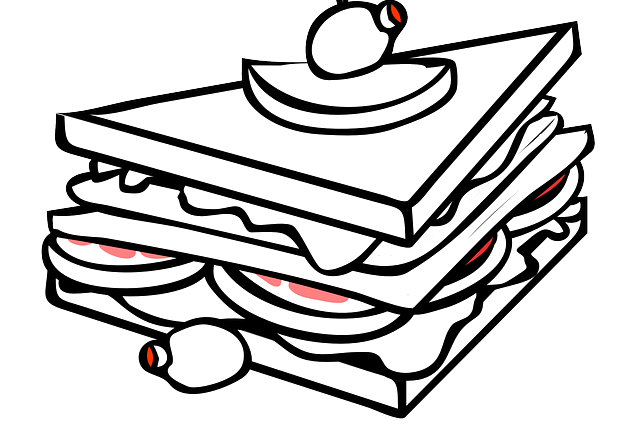
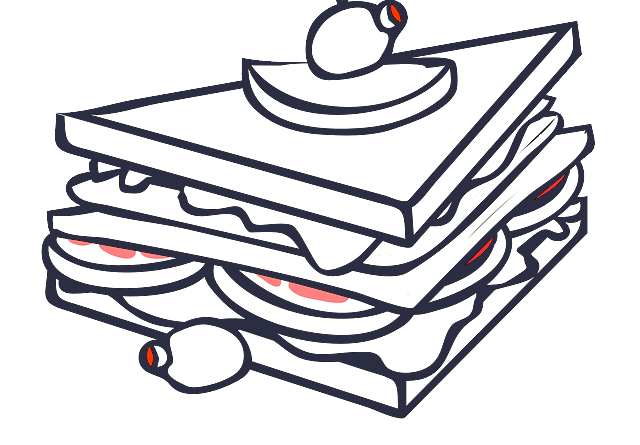
style index.html

Changed region(s): [[0.0625, 0.0, 0.9375, 0.9348], [0.6562, 0.5551, 0.6875, 0.5843], [0.6562, 0.2337, 0.6875, 0.2629]]

diff --git a/templates/index.html b/templates/index.html
@@ -1,9 +1,9 @@
 {% extends "base.html" %}
 {% block content %}
+
+
 <div class="row container-fluid callout-container">
     <div class="col-6 callout-img">
-        <!-- <img src="static/Img/Image_by_Clker_from_Pixabay-trim.png"> -->
-        <!-- <img src="static/Img/Image_by_Clker_from_Pixabay-blknwht.png"> -->
         <img src="static/Img/Image_by_Clker_from_Pixabay-line.png">
     </div>
     <div class="col-6 callout-text">
@@ -11,6 +11,37 @@
     </div>
 </div>
 
- 
-
+    {% if sandwiches|length > 0 %}
+        <div class="row">
+            <div class="col">
+                <h2 class="favourites">Our Favourite Sanwiches</h2>
+                <hr>
+            </div>
+        </div>
+        <div class="row card-row">
+            
+            {% for sandwich in sandwiches %}
+            <!-- default img on fail credited to: https://stackoverflow.com/questions/7995080/html-if-image-is-not-found -->
+            <div class="col-md-6 col-lg-4 card-row">
+                <div class="card shadow sandwich-card mt-5">
+                    <img src="{{ sandwich.image_url }}" class="card-img-top sandwich-url" alt="Sandwich Image" onerror="this.onerror=null; this.src='static/Img/Image_by_LuckyLife11_from_Pixabay.jpg'" />
+                    <div class="card-body">
+                        <h4 class="card-title">{{ sandwich.sandwich_name }}</h4>
+                        <p class="card-text">Category: {{ sandwich.category }}</p>
+                        <p class="card-text">{{ sandwich.prep_time }}</p>
+                        <small class="card-text"><em>Created by: {{ sandwich.created_by|upper }}</em></small>
+                        <div class="col mt-2">
+                            <a href="{{ url_for('view_sandwich', sandwich_id=sandwich._id) }}" class="btn btn-reg">View Sandwich</a>
+                        </div>
+                    </div>
+                </div>
+            </div>
+            
+            {% endfor %}
+        </div>
+    {% else %}
+        <div class="container no-results">
+            <h3 class="text-center mt-3">No Sandwiches Found</h3>
+        </div>
+    {% endif %}
 {% endblock %}

diff --git a/static/css/style.css b/static/css/style.css
@@ -1,6 +1,9 @@
 @import url('https://fonts.googleapis.com/css2?family=Mali:wght@400;500&display=swap');
 
 body {
+    overflow-x: hidden;
+    margin: 0 !important;
+    padding: 0 !important;
     font-family: 'Mali', cursive;
     color: #2b2d42;
     background-color: #e6e6e6;
@@ -19,7 +22,6 @@ nav {
 
 .nav-symbol h3 {
     font-size: 2.25rem;
-    /* font-weight: 400 !important; */
     font-weight: 500 !important;
     color: #2b2d42;
 }
@@ -103,18 +105,19 @@ footer {
     color: #9fd9de;
 }
 
-main {
+/* main {
     padding: 0 !important;
-}
+} */
 
 /* =============================== Index Section ============================= */
 
-.callout-container{
+.callout-container {
     margin: -20% 0 0 !important;
     padding: 20% 0 30% !important;
     background-color: #9fd9de;
     height: 50vh;
-    /* max-width: 100vw; */
+    width: 100vw;
+    margin-left: -15px !important;
 }
 
 .callout-img img {
@@ -122,7 +125,11 @@ main {
 }
 
 .callout-text h1 {
-    font-size: 300%;
+    font-size: 7vw;
+}
+
+.favourites {
+    font-size: 5vw;
 }
 
 /* =============================== Profile Section =========================== */
@@ -167,6 +174,11 @@ main {
 .sandwich-url {
     height: 200px;
     object-fit: cover;
+}
+
+.sandwich-card {
+    max-width: 400px;
+    margin: auto;
 }
 
 .card-body {

diff --git a/templates/sandwiches.html b/templates/sandwiches.html
@@ -17,7 +17,7 @@
         <div class="row">
             {% for sandwich in sandwiches %}
             <!-- default img on fail credited to: https://stackoverflow.com/questions/7995080/html-if-image-is-not-found -->
-            <div class="col-md-6 col-lg-4">
+            <div class="col-md-6 col-lg-4 justify-content-center">
                 <div class="card shadow sandwich-card mt-5">
                     <img src="{{ sandwich.image_url }}" class="card-img-top sandwich-url" alt="Sandwich Image" onerror="this.onerror=null; this.src='static/Img/Image_by_LuckyLife11_from_Pixabay.jpg'" />
                     <div class="card-body">

diff --git a/templates/base.html b/templates/base.html
@@ -22,7 +22,7 @@
             <div class="collapse navbar-collapse justify-content-end mt-1" id="navbarNavDropdown">
                 <ul class="navbar-nav nav-text-align">
                     <li class="nav-item mr-3 mb-2">
-                        <a class="nav-link text-uppercase" href="{{ url_for('sandwiches') }}">HOME</a>
+                        <a class="nav-link text-uppercase" href="{{ url_for('index') }}">HOME</a>
                     </li>
                     <li class="nav-item mr-3 mb-2">
                         <a class="nav-link text-uppercase" href="{{ url_for('sandwiches') }}">SANDWICHES</a>

diff --git a/templates/profile.html b/templates/profile.html
@@ -17,7 +17,7 @@
         <div class="row">
             {% for sandwich in sandwiches %}
             
-            <div class="col-md-6 col-lg-4">
+            <div class="col-md-6 col-lg-4 card-row">
                 <div class="card shadow sandwich-card mt-5">
                     <!-- default img on fail credited to: https://stackoverflow.com/questions/7995080/html-if-image-is-not-found -->
                     <img src="{{ sandwich.image_url }}" class="card-img-top sandwich-url" alt="Sandwich Image" onerror="this.onerror=null; this.src='static/Img/Image_by_LuckyLife11_from_Pixabay.jpg'" />

diff --git a/app.py b/app.py
@@ -21,8 +21,10 @@ mongo = PyMongo(app)
 @app.route("/")
 @app.route("/index")
 def index():
-    index = list(mongo.db.sandwiches.find().limit(3).skip(1).next())
-    return render_template("index.html", index=index)
+    sandwiches = list(
+                mongo.db.sandwiches.find(
+                    {"created_by": "earlofsandwich"}).limit(3))
+    return render_template("index.html", sandwiches=sandwiches)
 
 
 @app.route("/sandwiches")
